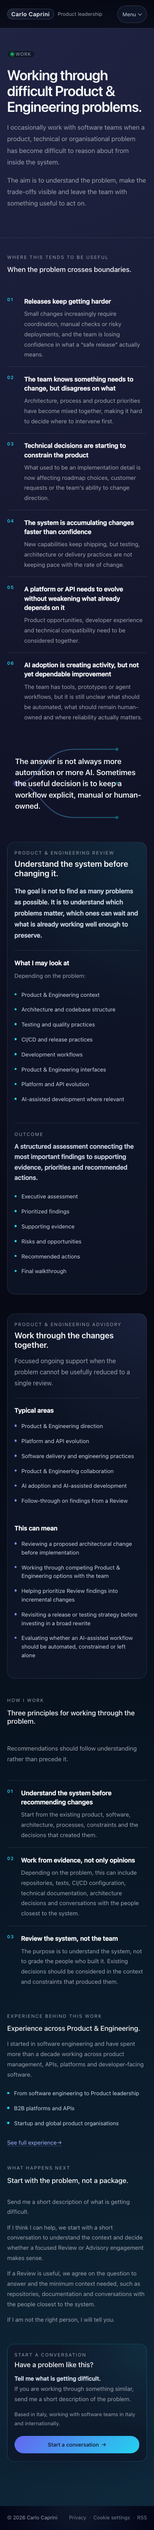
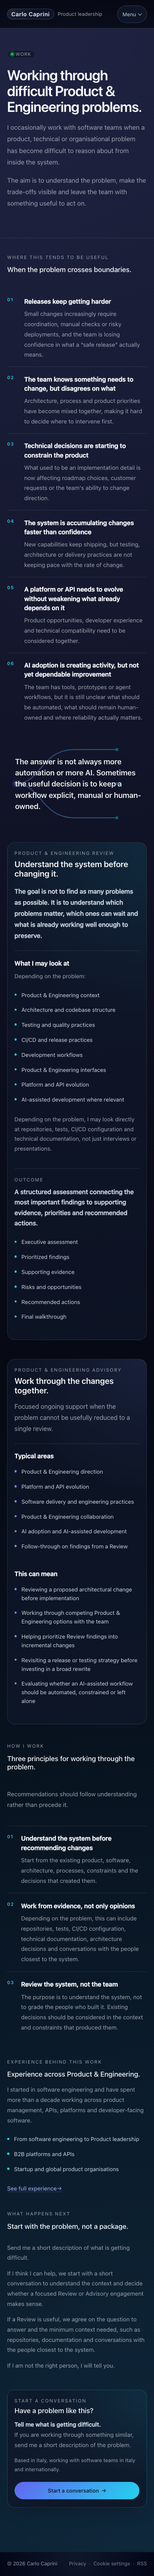
copy: restore concrete Review evidence

Changed region(s): [[0.0308, 0.0, 0.9538, 0.9686]]

diff --git a/tests/browser/editorial-journeys.spec.js b/tests/browser/editorial-journeys.spec.js
@@ -115,6 +115,7 @@ test("Work explains recognizable problems and exactly two engagement models", as
   await expect(page.locator(".work-situation-list > li")).toHaveCount(6);
   await expect(page.locator(".work-engagement")).toHaveCount(2);
   await expect(page.getByRole("heading", { name: "Understand the system before changing it." })).toBeVisible();
+  await expect(page.getByText("Depending on the problem, I may look directly at repositories, tests, CI/CD configuration and technical documentation, not just interviews or presentations.", { exact: true })).toBeVisible();
   await expect(page.getByRole("heading", { name: "Work through the changes together." })).toBeVisible();
   await expect(page.getByText("Illustrative example", { exact: true })).toHaveCount(0);
   await expect(page.locator(".work-engagement--advisory").getByText("Outcome", { exact: true })).toHaveCount(0);

diff --git a/_layouts/work.html b/_layouts/work.html
@@ -77,6 +77,7 @@ layout: default
             <ul class="work-compact-list">
               {% for item in page.review.scope %}<li>{{ item }}</li>{% endfor %}
             </ul>
+            <p class="work-scope-evidence">{{ page.review.scope_evidence }}</p>
           </section>
           <section class="work-outcome">
             <div class="section-eyebrow">{{ page.review.outcome_title }}</div>

diff --git a/pages/work.md b/pages/work.md
@@ -43,6 +43,7 @@ review:
     - Product & Engineering interfaces
     - Platform and API evolution
     - AI-assisted development where relevant
+  scope_evidence: Depending on the problem, I may look directly at repositories, tests, CI/CD configuration and technical documentation, not just interviews or presentations.
   outcome_title: Outcome
   outcome: A structured assessment connecting the most important findings to supporting evidence, priorities and recommended actions.
   possible_outputs:
